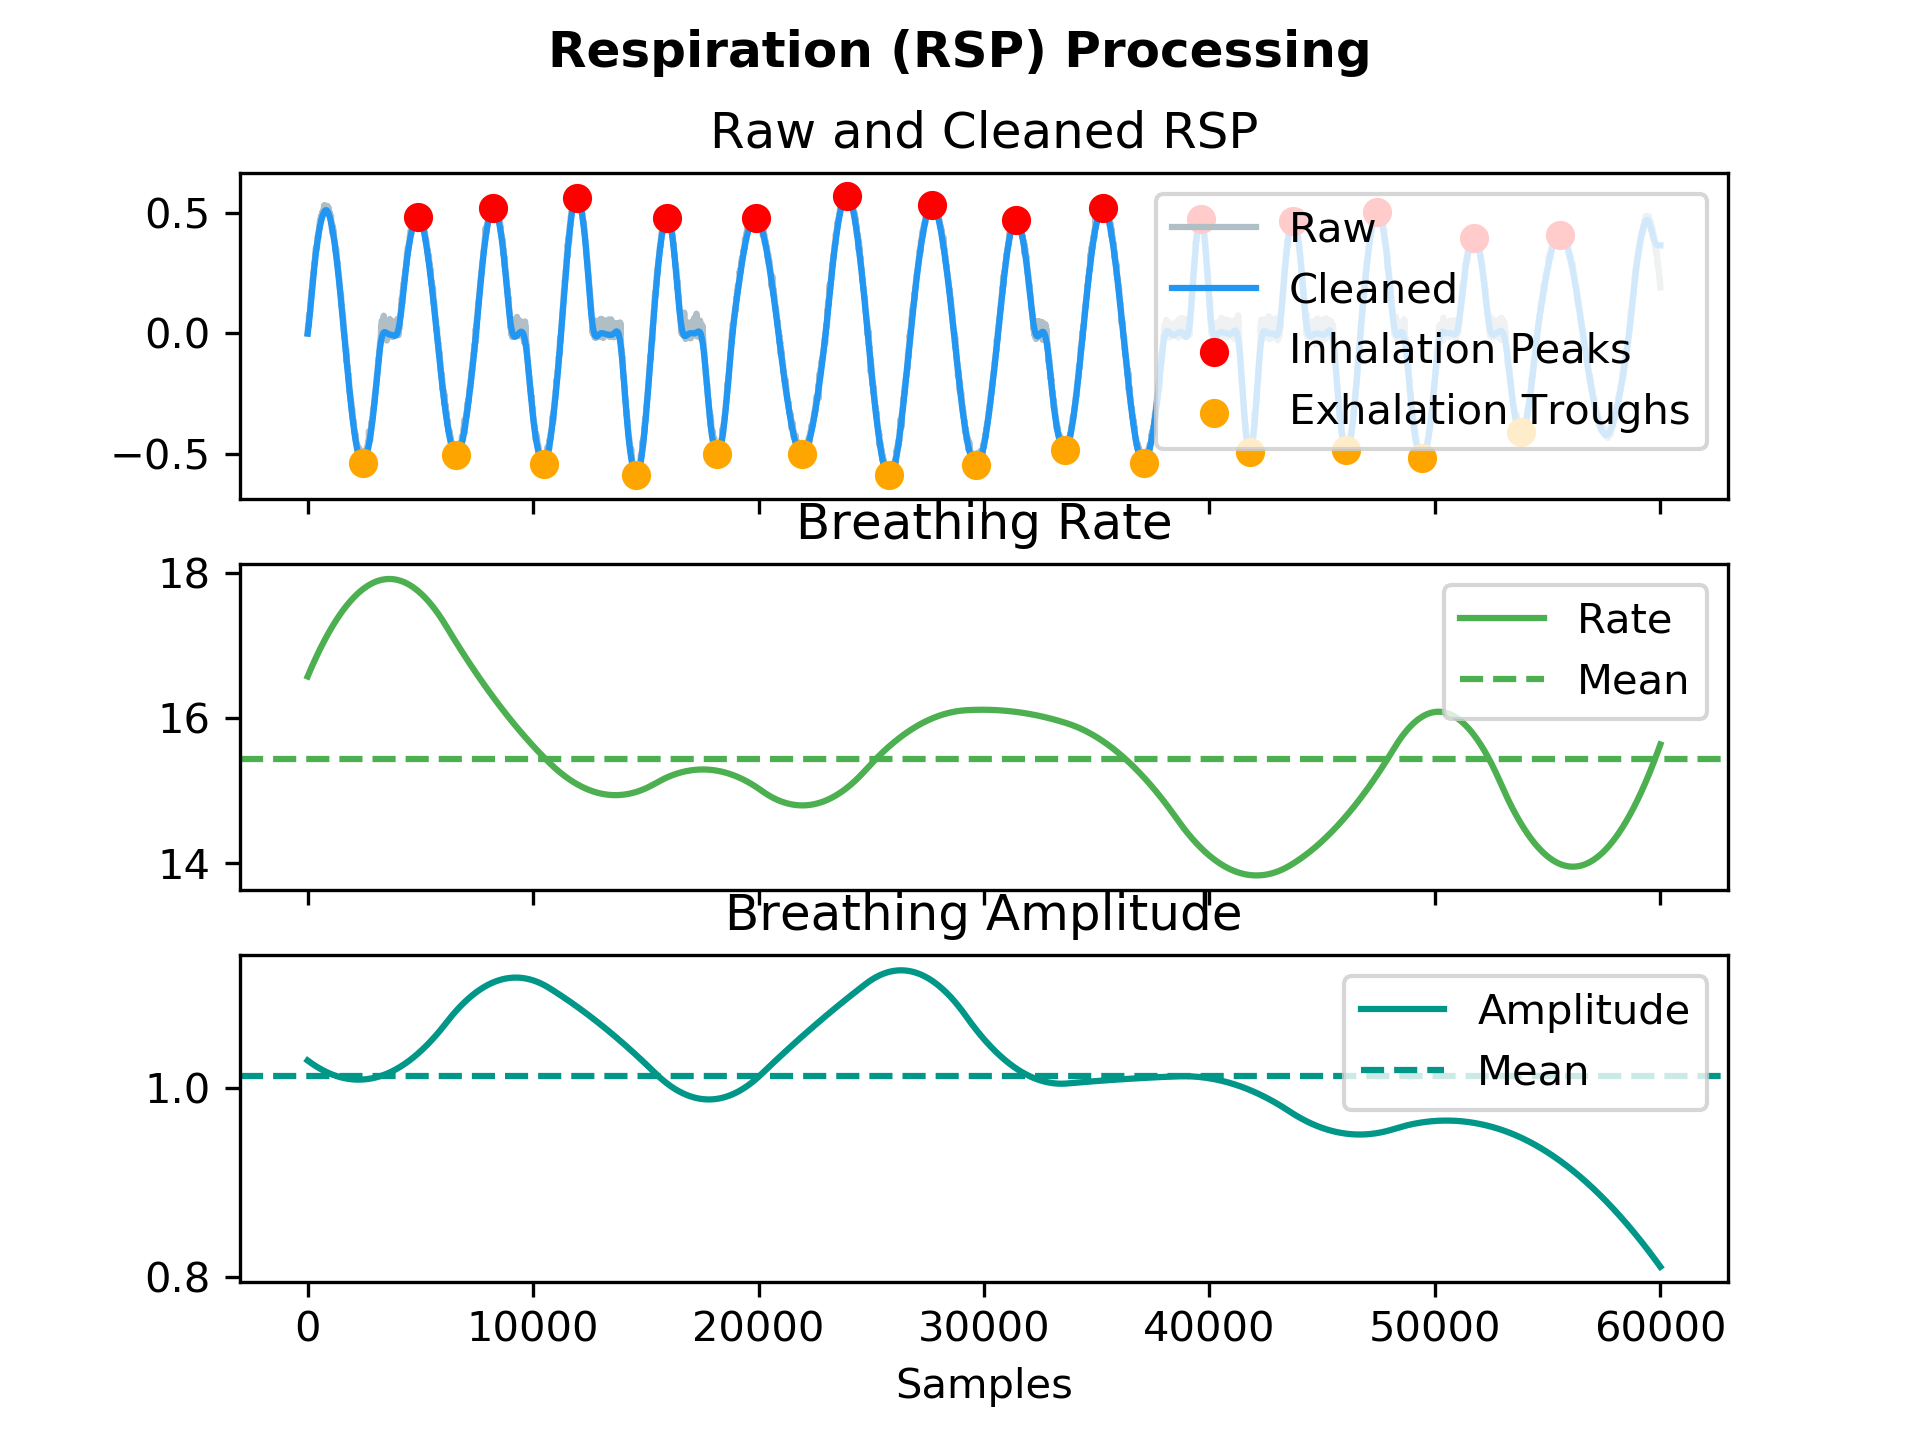
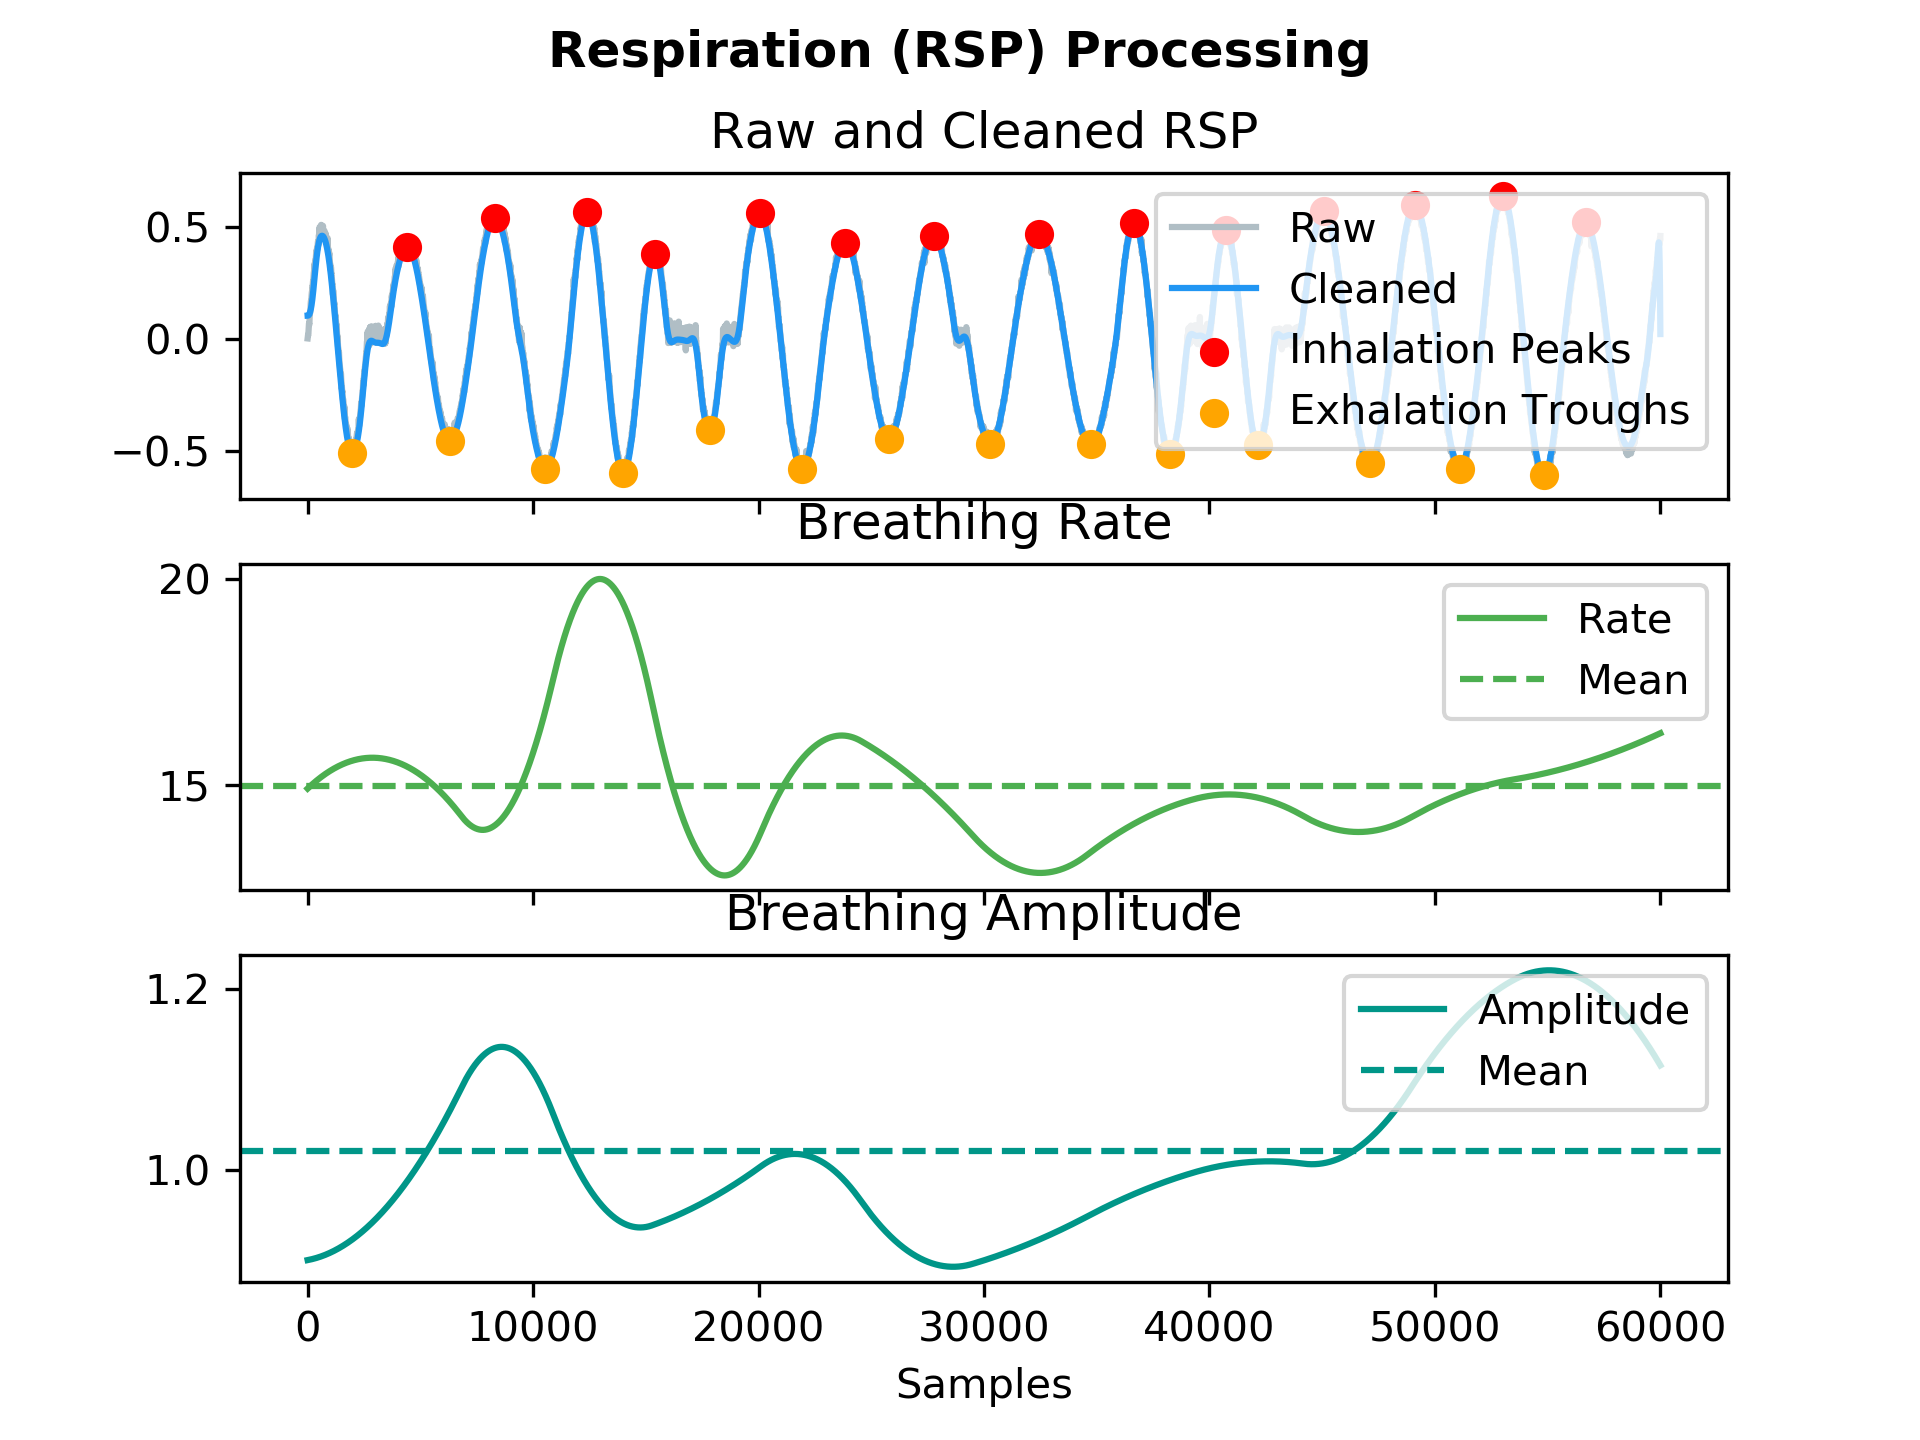
final fixes
close #69

diff --git a/neurokit2/signal/signal_rate.py b/neurokit2/signal/signal_rate.py
@@ -2,7 +2,7 @@
 import numpy as np
 import pandas as pd
 
-from ..signal import signal_interpolate
+from .signal_interpolate import signal_interpolate
 
 
 def signal_rate(peaks, sampling_rate=1000, desired_length=None):
@@ -46,30 +46,7 @@ def signal_rate(peaks, sampling_rate=1000, desired_length=None):
     >>> nk.signal_plot(rate)
     """
     # Format input.
-    if desired_length is None:
-        if isinstance(peaks, np.ndarray):
-            desired_length = max(peaks)
-        elif isinstance(peaks, pd.DataFrame):
-            desired_length = len(peaks)
-            # Attempt to retrieve column
-            col = [col for col in peaks.columns if 'Peaks' in col]
-            if len(col) == 0:
-                TypeError("NeuroKit error: signal_rate(): wrong type of input ",
-                          "provided. Please provide indices of peaks.")
-            peaks_signal = peaks[col[0]].values
-            peaks = np.where(peaks_signal == 1)[0]
-        else:
-            desired_length = len(peaks)
-
-    if desired_length < len(peaks):
-        raise ValueError("NeuroKit error: signal_rate(): 'desired_length' cannot",
-                         " be lower than the length of the signal. Please input a greater 'desired_length'.")
-
-    # Sanity checks.
-    if len(peaks) <= 3:
-        print("NeuroKit warning: signal_rate(): too few peaks detected to "
-              "compute the rate. Returning empty vector.")
-        return np.full(desired_length, np.nan)
+    peaks, desired_length = _signal_rate_sanitize(peaks, desired_length)
 
     # Calculate period in msec, based on peak to peak difference and make sure
     # that rate has the same number of elements as peaks (important for
@@ -83,3 +60,41 @@ def signal_rate(peaks, sampling_rate=1000, desired_length=None):
         rate = signal_interpolate(rate, x_axis=peaks, desired_length=desired_length)
 
     return rate
+
+
+
+
+# =============================================================================
+# Internals
+# =============================================================================
+
+def _signal_rate_sanitize(peaks, desired_length=None):
+    # Retrieve length.
+    if desired_length is None:
+        if isinstance(peaks, np.ndarray):
+            desired_length = np.max(peaks)
+        else:
+            desired_length = len(peaks)
+
+    if desired_length < len(peaks):
+        raise ValueError("NeuroKit error: signal_rate(): 'desired_length' cannot",
+                         " be lower than the length of the signal. Please input a greater 'desired_length'.")
+
+
+    # Attempt to retrieve column.
+    if isinstance(peaks, pd.DataFrame):
+        col = [col for col in peaks.columns if 'Peaks' in col]
+        if len(col) == 0:
+            TypeError("NeuroKit error: signal_rate(): wrong type of input ",
+                      "provided. Please provide indices of peaks.")
+        peaks_signal = peaks[col[0]].values
+        peaks = np.where(peaks_signal == 1)[0]
+
+
+    # Sanity checks.
+    if len(peaks) <= 3:
+        print("NeuroKit warning: signal_rate(): too few peaks detected to "
+              "compute the rate. Returning empty vector.")
+        return np.full(desired_length, np.nan)
+
+    return peaks, desired_length

diff --git a/neurokit2/rsp/rsp_rate.py b/neurokit2/rsp/rsp_rate.py
@@ -1,8 +1,13 @@
 # -*- coding: utf-8 -*-
 import numpy as np
 import pandas as pd
+
+from ..signal.signal_rate import signal_rate
+from ..signal.signal_rate import _signal_rate_sanitize
 from ..signal import signal_interpolate
 from ..signal import signal_smooth
+
+
 
 
 def rsp_rate(peaks, sampling_rate=1000, desired_length=None,
@@ -31,9 +36,8 @@ def rsp_rate(peaks, sampling_rate=1000, desired_length=None,
 
     Returns
     -------
-    signals : DataFrame
-        A DataFrame containing the respiration rate accessible with the key
-        "RSP_Rate".
+    array
+        A vector containing the respiration rate.
 
     See Also
     --------
@@ -47,41 +51,22 @@ def rsp_rate(peaks, sampling_rate=1000, desired_length=None,
     >>> cleaned = nk.rsp_clean(rsp, sampling_rate=1000)
     >>> signals, info = nk.rsp_findpeaks(cleaned)
     >>>
-    >>> data = nk.rsp_rate(signals)
-    >>> data["RSP_Signal"] = cleaned  # Add the signal back
-    >>> data.plot(subplots=True)
+    >>> rate = nk.rsp_rate(signals)
+    >>> nk.signal_plot([rsp, rate], subplots=True)
     """
-    # Sanity checks.
-    if isinstance(peaks, dict):
-        peaks = peaks["RSP_Peaks"]
-    elif isinstance(peaks, pd.DataFrame):
-        desired_length = len(peaks["RSP_Peaks"])
-        peaks = np.where(peaks["RSP_Peaks"] == 1)[0]
-    if len(peaks) <= 3:
-        raise ValueError("NeuroKit warning: rsp_rate(): too few peaks detected to "
-                         "compute the rate.")
+    # Format input.
+    peaks, desired_length = _signal_rate_sanitize(peaks, desired_length)
 
-    # Find length of final signal to return.
-    if desired_length is None:
-        desired_length = len(peaks)
-
-    # Calculate period in msec, based on horizontal peak to peak difference and
-    # make sure that rate has the same number of elements as peaks (important
-    # for interpolation later) by prepending the mean of all periods.
-    period = np.ediff1d(peaks, to_begin=0) / sampling_rate
-    period[0] = np.mean(period)
-    rate = 60 / period
+    # Get rate values
+    rate = signal_rate(peaks, sampling_rate, desired_length=len(peaks))
 
     # Preprocessing.
     rate, peaks = _rsp_rate_preprocessing(rate, peaks, method=method)
 
     # Interpolate rates to desired_length samples.
-    rate = signal_interpolate(rate, x_axis=peaks,
-                              desired_length=desired_length)
+    rate = signal_interpolate(rate, x_axis=peaks, desired_length=desired_length)
 
-    signals = pd.DataFrame(rate, columns=["RSP_Rate"])
-
-    return signals
+    return rate
 
 
 # =============================================================================

diff --git a/neurokit2/ecg/ecg_rate.py b/neurokit2/ecg/ecg_rate.py
@@ -26,8 +26,8 @@ def ecg_rate(peaks, sampling_rate=1000, desired_length=None):
 
     Returns
     -------
-    signals : DataFrame
-        A DataFrame containing heart rate accessible with the key "ECG_Rate".
+    array
+        A DataFrame containing heart rate accessible.
 
     See Also
     --------
@@ -40,13 +40,10 @@ def ecg_rate(peaks, sampling_rate=1000, desired_length=None):
     >>> ecg = nk.ecg_simulate(duration=15, heart_rate=80)
     >>> signals, info = nk.ecg_findpeaks(ecg)
     >>>
-    >>> data = nk.ecg_rate(signals)
-    >>> data["ECG_Signal"] = ecg  # Add the signal back
-    >>> data.plot(subplots=True)
+    >>> rate = nk.ecg_rate(signals)
+    >>> nk.signal_plot([ecg, rate], subplots=True)
     """
     # Get rate values
     rate = signal_rate(peaks, sampling_rate, desired_length=desired_length)
 
-    # Prepare output
-    signals = pd.DataFrame(rate, columns=["ECG_Rate"])
-    return signals
+    return rate

diff --git a/neurokit2/rsp/rsp_process.py b/neurokit2/rsp/rsp_process.py
@@ -1,5 +1,6 @@
 # -*- coding: utf-8 -*-
 import pandas as pd
+
 from .rsp_clean import rsp_clean
 from .rsp_findpeaks import rsp_findpeaks
 from .rsp_rate import rsp_rate
@@ -70,7 +71,9 @@ def rsp_process(rsp_signal, sampling_rate=1000, method="khodadad2018"):
     amplitude = rsp_amplitude(rsp_signal, extrema_signal)
 
     signals = pd.DataFrame({"RSP_Raw": rsp_signal,
-                            "RSP_Clean": rsp_cleaned})
-    signals = pd.concat([signals, extrema_signal, rate, amplitude], axis=1)
+                            "RSP_Clean": rsp_cleaned,
+                            "RSP_Rate": rate,
+                            "RSP_Amplitude": amplitude})
+    signals = pd.concat([signals, extrema_signal], axis=1)
 
     return signals, info

diff --git a/neurokit2/rsp/rsp_amplitude.py b/neurokit2/rsp/rsp_amplitude.py
@@ -29,9 +29,8 @@ def rsp_amplitude(rsp_signal, extrema, desired_length=None):
 
     Returns
     -------
-    signals : DataFrame
-        A DataFrame containing the respiratory amplitude accessible with the
-        key "RSP_Amplitude"
+    array
+        A vector containing the respiratory amplitude.
 
     See Also
     --------
@@ -89,6 +88,4 @@ def rsp_amplitude(rsp_signal, extrema, desired_length=None):
     amplitude = signal_interpolate(amplitude, x_axis=peaks,
                                    desired_length=desired_length)
 
-    signals = pd.DataFrame(amplitude, columns=["RSP_Amplitude"])
-
-    return signals
+    return amplitude

diff --git a/neurokit2/ecg/ecg_process.py b/neurokit2/ecg/ecg_process.py
@@ -58,6 +58,7 @@ def ecg_process(ecg_signal, sampling_rate=1000, method="neurokit"):
     rate = ecg_rate(extrema_signal, sampling_rate=sampling_rate)
 
     signals = pd.DataFrame({"ECG_Raw": ecg_signal,
-                            "ECG_Clean": ecg_cleaned})
-    signals = pd.concat([signals, extrema_signal, rate], axis=1)
+                            "ECG_Clean": ecg_cleaned,
+                            "ECG_Rate": rate})
+    signals = pd.concat([signals, extrema_signal], axis=1)
     return signals, info

diff --git a/neurokit2/signal/signal_plot.py b/neurokit2/signal/signal_plot.py
@@ -5,7 +5,7 @@ import pandas as pd
 from ..events.events_plot import events_plot
 
 
-def signal_plot(signal):
+def signal_plot(signal, subplots=False):
     """Plot signal with events as vertical lines.
 
     Parameters
@@ -55,4 +55,4 @@ def signal_plot(signal):
 
         events_plot(events, signal=signal[continuous_columns])
     else:
-        signal[continuous_columns].plot()
+        signal[continuous_columns].plot(subplots=subplots)

diff --git a/neurokit2/signal/signal_interpolate.py b/neurokit2/signal/signal_interpolate.py
@@ -83,4 +83,4 @@ def signal_interpolate(signal, desired_length=None, method="quadratic",
 
     interpolated = interpolation_function(new_x)
 
-    return(interpolated)
+    return interpolated

diff --git a/docs/img/README_examples.py b/docs/img/README_examples.py
@@ -1,6 +1,6 @@
 import numpy as np
 import pandas as pd
-import neurokit2 as nk
+#import neurokit2 as nk
 
 
 # =============================================================================
